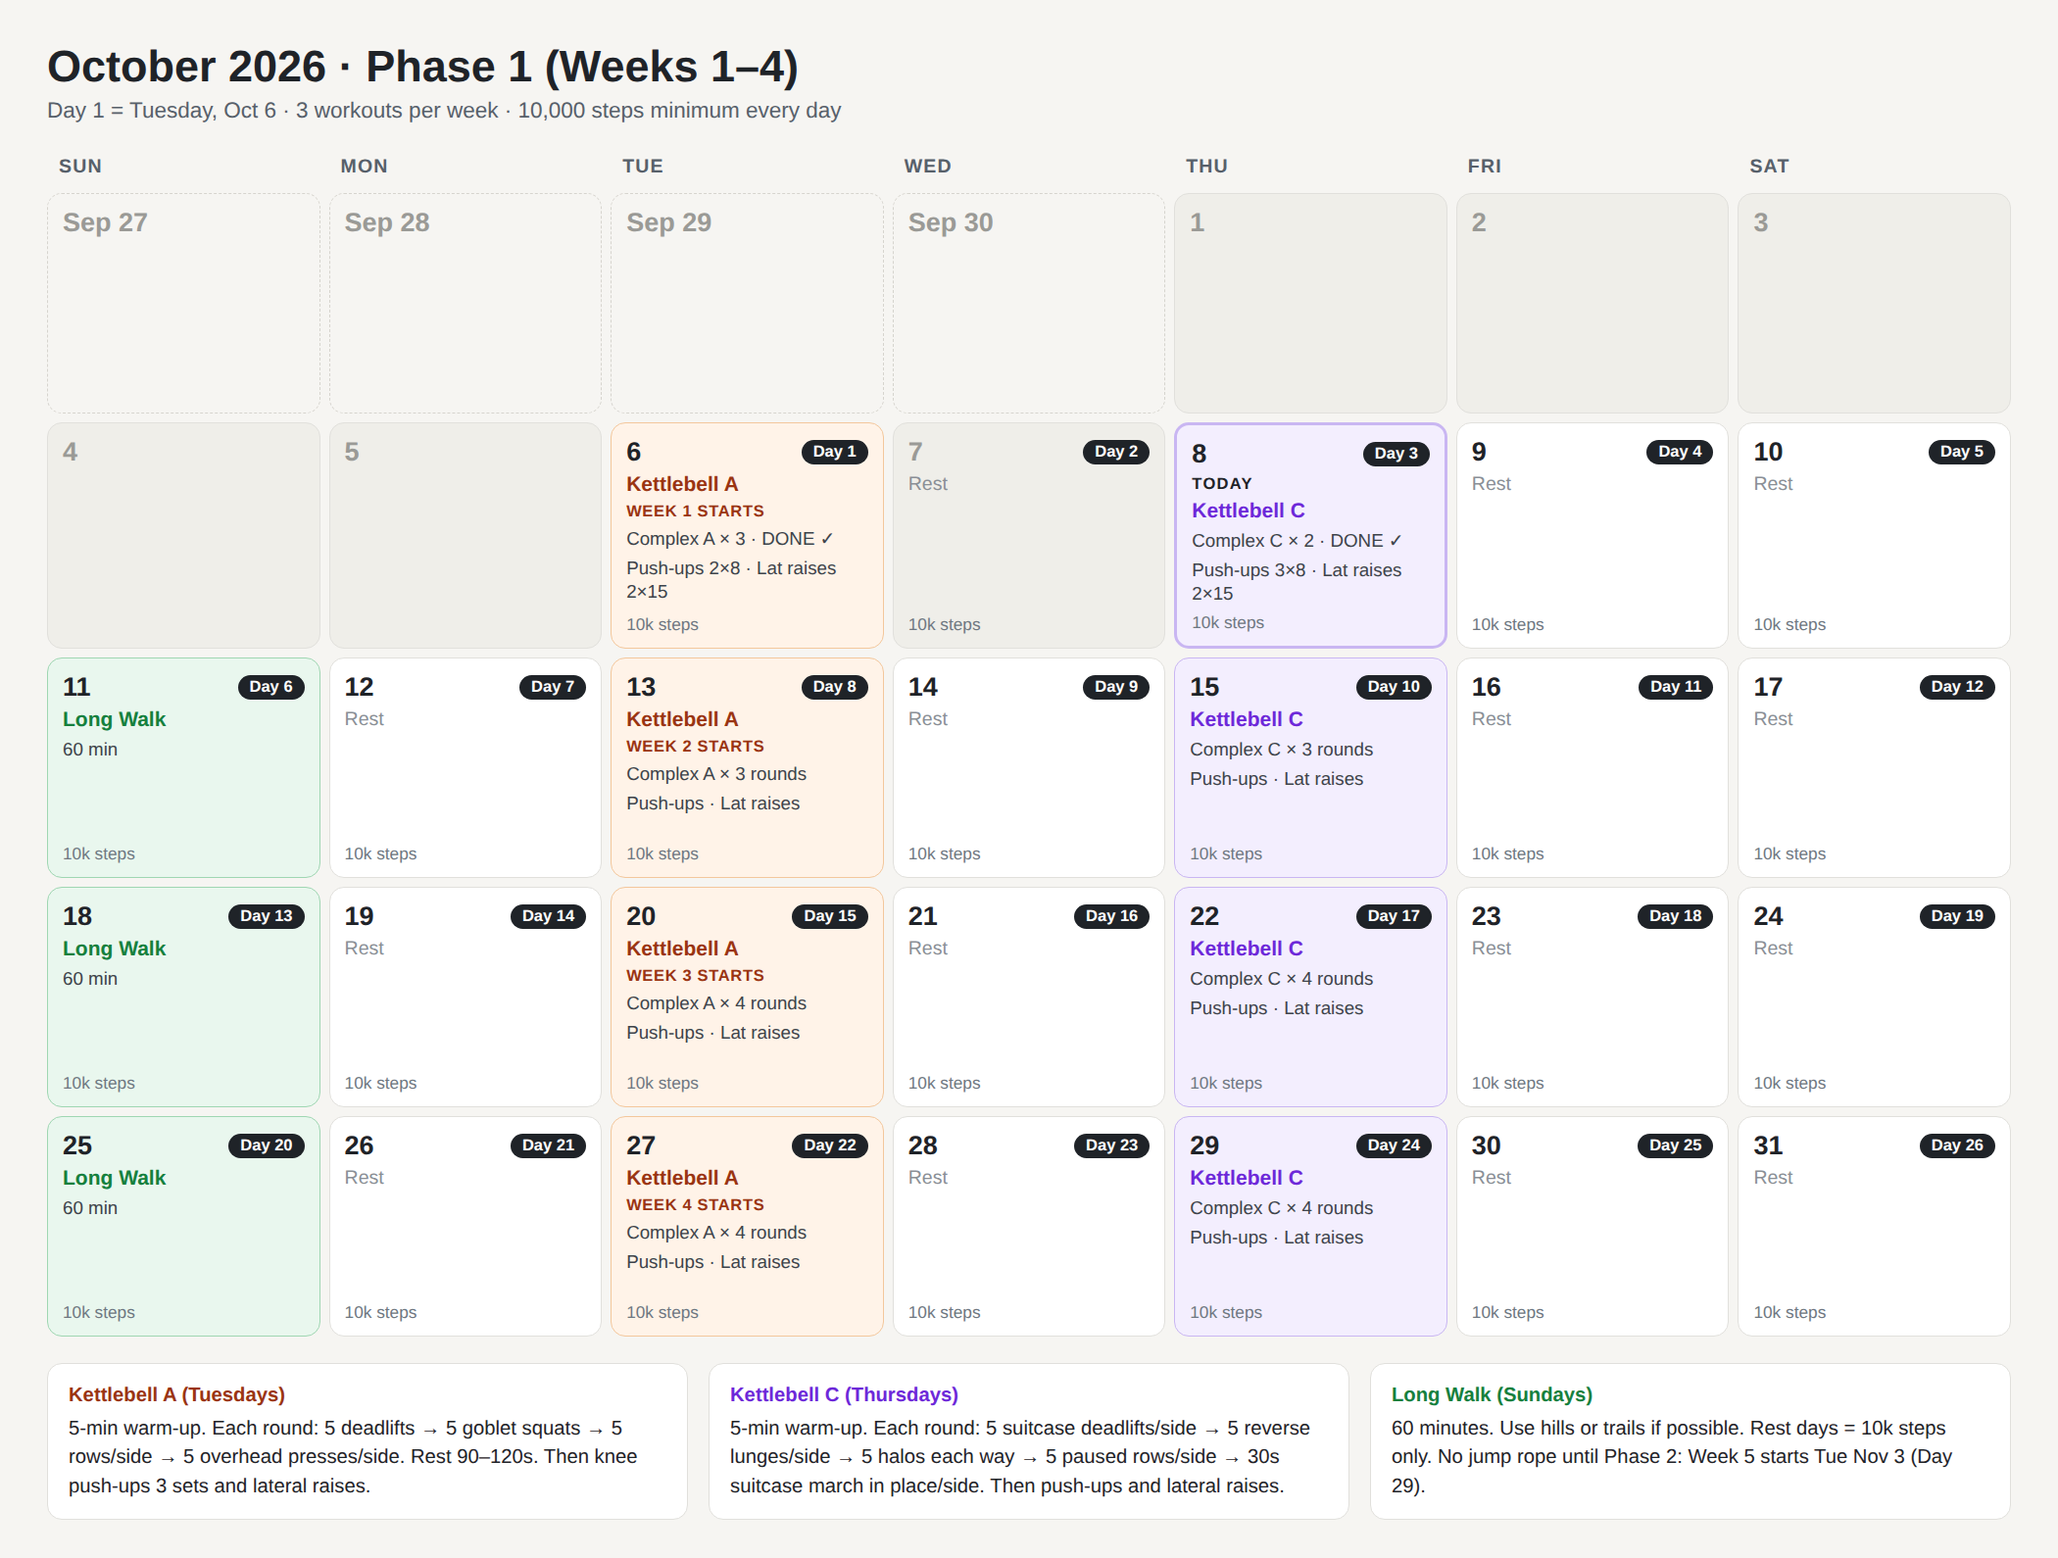
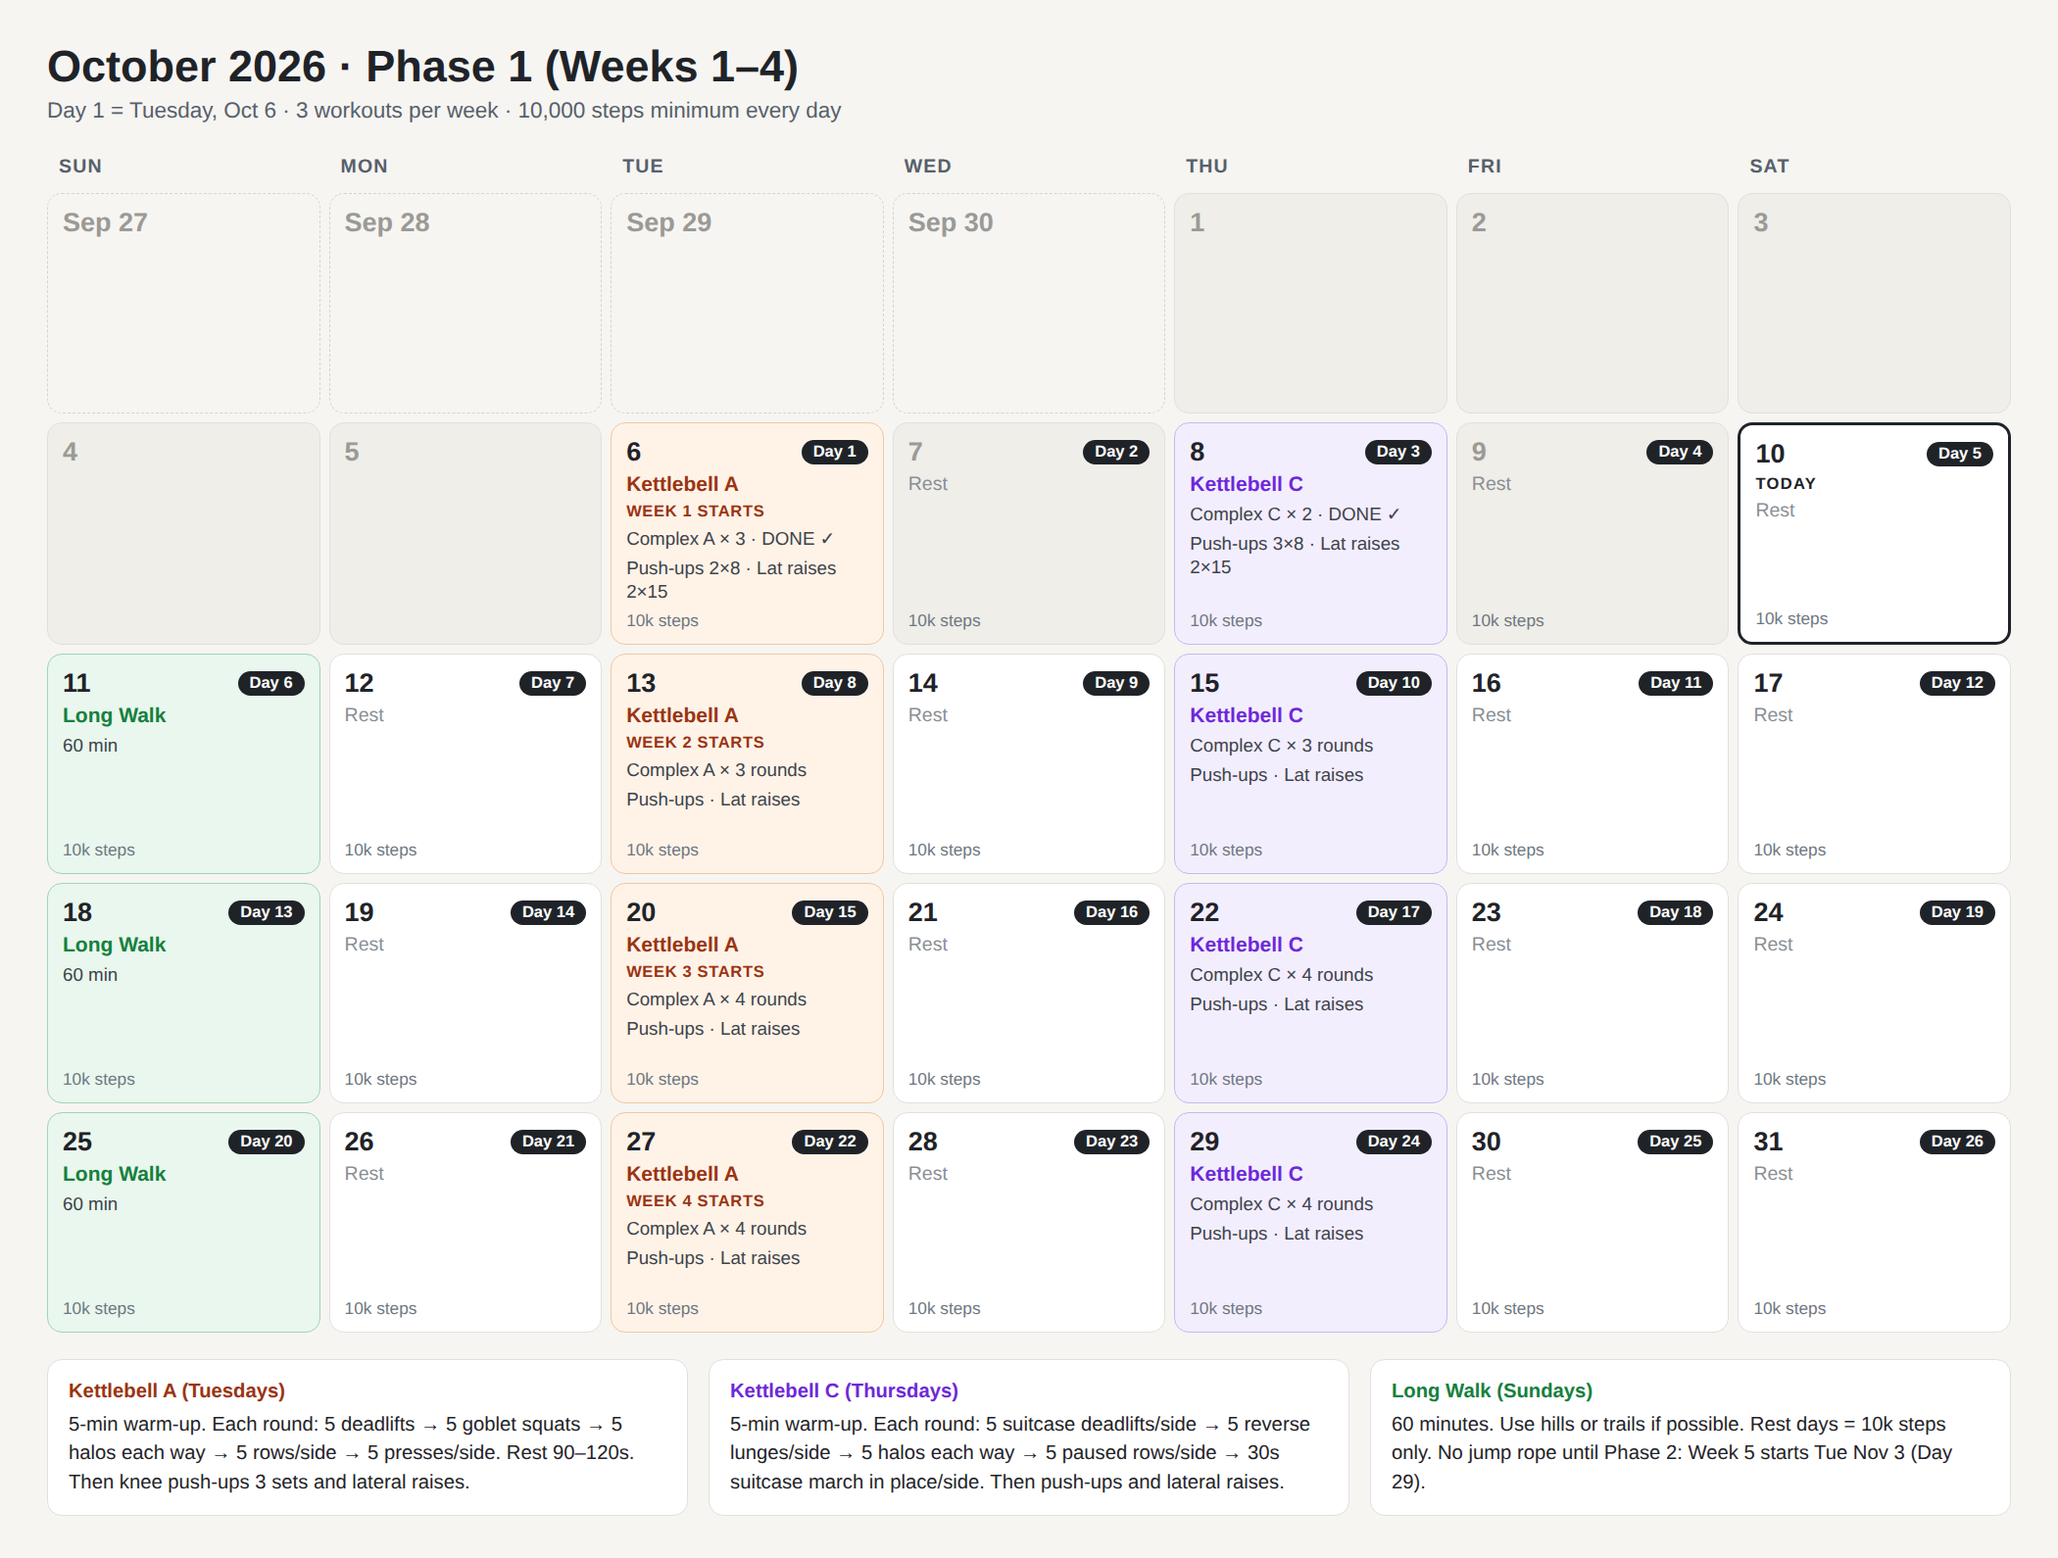
Add halos to Complex A
Halo goes after the goblet squat (5 each direction, 20 lb) for extra
core work. Calendar legend updated and TODAY marker moved to Oct 10.

diff --git a/source/october-2026.html b/source/october-2026.html
@@ -24,8 +24,8 @@ h1{margin:0;font-size:30px} .sub{color:#57606a;margin:4px 0 18px;font-size:15px}
 </style></head><body>
 <h1>October 2026 · Phase 1 (Weeks 1–4)</h1>
 <div class="sub">Day 1 = Tuesday, Oct 6 · 3 workouts per week · 10,000 steps minimum every day</div>
-<div class="grid"><div class="hd">Sun</div><div class="hd">Mon</div><div class="hd">Tue</div><div class="hd">Wed</div><div class="hd">Thu</div><div class="hd">Fri</div><div class="hd">Sat</div><div class="cell out"><div class="num">Sep 27</div></div><div class="cell out"><div class="num">Sep 28</div></div><div class="cell out"><div class="num">Sep 29</div></div><div class="cell out"><div class="num">Sep 30</div></div><div class="cell past"><div class="num">1</div></div><div class="cell past"><div class="num">2</div></div><div class="cell past"><div class="num">3</div></div><div class="cell past"><div class="num">4</div></div><div class="cell past"><div class="num">5</div></div><div class="cell kb"><div class="num">6<span class="day">Day 1</span></div><div class="w">Kettlebell A</div><div class="wk">Week 1 starts</div><div class="det">Complex A × 3 · DONE ✓</div><div class="det">Push-ups 2×8 · Lat raises 2×15</div><div class="steps">10k steps</div></div><div class="cell past"><div class="num">7<span class="day">Day 2</span></div><div class="rest">Rest</div><div class="steps">10k steps</div></div><div class="cell today kb2"><div class="num">8<span class="day">Day 3</span></div><div class="tag">TODAY</div><div class="w">Kettlebell C</div><div class="det">Complex C × 2 · DONE ✓</div><div class="det">Push-ups 3×8 · Lat raises 2×15</div><div class="steps">10k steps</div></div><div class="cell"><div class="num">9<span class="day">Day 4</span></div><div class="rest">Rest</div><div class="steps">10k steps</div></div><div class="cell"><div class="num">10<span class="day">Day 5</span></div><div class="rest">Rest</div><div class="steps">10k steps</div></div><div class="cell walk"><div class="num">11<span class="day">Day 6</span></div><div class="w">Long Walk</div><div class="det">60 min</div><div class="steps">10k steps</div></div><div class="cell"><div class="num">12<span class="day">Day 7</span></div><div class="rest">Rest</div><div class="steps">10k steps</div></div><div class="cell kb"><div class="num">13<span class="day">Day 8</span></div><div class="w">Kettlebell A</div><div class="wk">Week 2 starts</div><div class="det">Complex A × 3 rounds</div><div class="det">Push-ups · Lat raises</div><div class="steps">10k steps</div></div><div class="cell"><div class="num">14<span class="day">Day 9</span></div><div class="rest">Rest</div><div class="steps">10k steps</div></div><div class="cell kb2"><div class="num">15<span class="day">Day 10</span></div><div class="w">Kettlebell C</div><div class="det">Complex C × 3 rounds</div><div class="det">Push-ups · Lat raises</div><div class="steps">10k steps</div></div><div class="cell"><div class="num">16<span class="day">Day 11</span></div><div class="rest">Rest</div><div class="steps">10k steps</div></div><div class="cell"><div class="num">17<span class="day">Day 12</span></div><div class="rest">Rest</div><div class="steps">10k steps</div></div><div class="cell walk"><div class="num">18<span class="day">Day 13</span></div><div class="w">Long Walk</div><div class="det">60 min</div><div class="steps">10k steps</div></div><div class="cell"><div class="num">19<span class="day">Day 14</span></div><div class="rest">Rest</div><div class="steps">10k steps</div></div><div class="cell kb"><div class="num">20<span class="day">Day 15</span></div><div class="w">Kettlebell A</div><div class="wk">Week 3 starts</div><div class="det">Complex A × 4 rounds</div><div class="det">Push-ups · Lat raises</div><div class="steps">10k steps</div></div><div class="cell"><div class="num">21<span class="day">Day 16</span></div><div class="rest">Rest</div><div class="steps">10k steps</div></div><div class="cell kb2"><div class="num">22<span class="day">Day 17</span></div><div class="w">Kettlebell C</div><div class="det">Complex C × 4 rounds</div><div class="det">Push-ups · Lat raises</div><div class="steps">10k steps</div></div><div class="cell"><div class="num">23<span class="day">Day 18</span></div><div class="rest">Rest</div><div class="steps">10k steps</div></div><div class="cell"><div class="num">24<span class="day">Day 19</span></div><div class="rest">Rest</div><div class="steps">10k steps</div></div><div class="cell walk"><div class="num">25<span class="day">Day 20</span></div><div class="w">Long Walk</div><div class="det">60 min</div><div class="steps">10k steps</div></div><div class="cell"><div class="num">26<span class="day">Day 21</span></div><div class="rest">Rest</div><div class="steps">10k steps</div></div><div class="cell kb"><div class="num">27<span class="day">Day 22</span></div><div class="w">Kettlebell A</div><div class="wk">Week 4 starts</div><div class="det">Complex A × 4 rounds</div><div class="det">Push-ups · Lat raises</div><div class="steps">10k steps</div></div><div class="cell"><div class="num">28<span class="day">Day 23</span></div><div class="rest">Rest</div><div class="steps">10k steps</div></div><div class="cell kb2"><div class="num">29<span class="day">Day 24</span></div><div class="w">Kettlebell C</div><div class="det">Complex C × 4 rounds</div><div class="det">Push-ups · Lat raises</div><div class="steps">10k steps</div></div><div class="cell"><div class="num">30<span class="day">Day 25</span></div><div class="rest">Rest</div><div class="steps">10k steps</div></div><div class="cell"><div class="num">31<span class="day">Day 26</span></div><div class="rest">Rest</div><div class="steps">10k steps</div></div></div>
+<div class="grid"><div class="hd">Sun</div><div class="hd">Mon</div><div class="hd">Tue</div><div class="hd">Wed</div><div class="hd">Thu</div><div class="hd">Fri</div><div class="hd">Sat</div><div class="cell out"><div class="num">Sep 27</div></div><div class="cell out"><div class="num">Sep 28</div></div><div class="cell out"><div class="num">Sep 29</div></div><div class="cell out"><div class="num">Sep 30</div></div><div class="cell past"><div class="num">1</div></div><div class="cell past"><div class="num">2</div></div><div class="cell past"><div class="num">3</div></div><div class="cell past"><div class="num">4</div></div><div class="cell past"><div class="num">5</div></div><div class="cell kb"><div class="num">6<span class="day">Day 1</span></div><div class="w">Kettlebell A</div><div class="wk">Week 1 starts</div><div class="det">Complex A × 3 · DONE ✓</div><div class="det">Push-ups 2×8 · Lat raises 2×15</div><div class="steps">10k steps</div></div><div class="cell past"><div class="num">7<span class="day">Day 2</span></div><div class="rest">Rest</div><div class="steps">10k steps</div></div><div class="cell kb2"><div class="num">8<span class="day">Day 3</span></div><div class="w">Kettlebell C</div><div class="det">Complex C × 2 · DONE ✓</div><div class="det">Push-ups 3×8 · Lat raises 2×15</div><div class="steps">10k steps</div></div><div class="cell past"><div class="num">9<span class="day">Day 4</span></div><div class="rest">Rest</div><div class="steps">10k steps</div></div><div class="cell today"><div class="num">10<span class="day">Day 5</span></div><div class="tag">TODAY</div><div class="rest">Rest</div><div class="steps">10k steps</div></div><div class="cell walk"><div class="num">11<span class="day">Day 6</span></div><div class="w">Long Walk</div><div class="det">60 min</div><div class="steps">10k steps</div></div><div class="cell"><div class="num">12<span class="day">Day 7</span></div><div class="rest">Rest</div><div class="steps">10k steps</div></div><div class="cell kb"><div class="num">13<span class="day">Day 8</span></div><div class="w">Kettlebell A</div><div class="wk">Week 2 starts</div><div class="det">Complex A × 3 rounds</div><div class="det">Push-ups · Lat raises</div><div class="steps">10k steps</div></div><div class="cell"><div class="num">14<span class="day">Day 9</span></div><div class="rest">Rest</div><div class="steps">10k steps</div></div><div class="cell kb2"><div class="num">15<span class="day">Day 10</span></div><div class="w">Kettlebell C</div><div class="det">Complex C × 3 rounds</div><div class="det">Push-ups · Lat raises</div><div class="steps">10k steps</div></div><div class="cell"><div class="num">16<span class="day">Day 11</span></div><div class="rest">Rest</div><div class="steps">10k steps</div></div><div class="cell"><div class="num">17<span class="day">Day 12</span></div><div class="rest">Rest</div><div class="steps">10k steps</div></div><div class="cell walk"><div class="num">18<span class="day">Day 13</span></div><div class="w">Long Walk</div><div class="det">60 min</div><div class="steps">10k steps</div></div><div class="cell"><div class="num">19<span class="day">Day 14</span></div><div class="rest">Rest</div><div class="steps">10k steps</div></div><div class="cell kb"><div class="num">20<span class="day">Day 15</span></div><div class="w">Kettlebell A</div><div class="wk">Week 3 starts</div><div class="det">Complex A × 4 rounds</div><div class="det">Push-ups · Lat raises</div><div class="steps">10k steps</div></div><div class="cell"><div class="num">21<span class="day">Day 16</span></div><div class="rest">Rest</div><div class="steps">10k steps</div></div><div class="cell kb2"><div class="num">22<span class="day">Day 17</span></div><div class="w">Kettlebell C</div><div class="det">Complex C × 4 rounds</div><div class="det">Push-ups · Lat raises</div><div class="steps">10k steps</div></div><div class="cell"><div class="num">23<span class="day">Day 18</span></div><div class="rest">Rest</div><div class="steps">10k steps</div></div><div class="cell"><div class="num">24<span class="day">Day 19</span></div><div class="rest">Rest</div><div class="steps">10k steps</div></div><div class="cell walk"><div class="num">25<span class="day">Day 20</span></div><div class="w">Long Walk</div><div class="det">60 min</div><div class="steps">10k steps</div></div><div class="cell"><div class="num">26<span class="day">Day 21</span></div><div class="rest">Rest</div><div class="steps">10k steps</div></div><div class="cell kb"><div class="num">27<span class="day">Day 22</span></div><div class="w">Kettlebell A</div><div class="wk">Week 4 starts</div><div class="det">Complex A × 4 rounds</div><div class="det">Push-ups · Lat raises</div><div class="steps">10k steps</div></div><div class="cell"><div class="num">28<span class="day">Day 23</span></div><div class="rest">Rest</div><div class="steps">10k steps</div></div><div class="cell kb2"><div class="num">29<span class="day">Day 24</span></div><div class="w">Kettlebell C</div><div class="det">Complex C × 4 rounds</div><div class="det">Push-ups · Lat raises</div><div class="steps">10k steps</div></div><div class="cell"><div class="num">30<span class="day">Day 25</span></div><div class="rest">Rest</div><div class="steps">10k steps</div></div><div class="cell"><div class="num">31<span class="day">Day 26</span></div><div class="rest">Rest</div><div class="steps">10k steps</div></div></div>
 <div class="legend">
-<div><b style="color:#9a3412">Kettlebell A (Tuesdays)</b>5-min warm-up. Each round: 5 deadlifts → 5 goblet squats → 5 rows/side → 5 overhead presses/side. Rest 90–120s. Then knee push-ups 3 sets and lateral raises.</div>
+<div><b style="color:#9a3412">Kettlebell A (Tuesdays)</b>5-min warm-up. Each round: 5 deadlifts → 5 goblet squats → 5 halos each way → 5 rows/side → 5 presses/side. Rest 90–120s. Then knee push-ups 3 sets and lateral raises.</div>
 <div><b style="color:#6d28d9">Kettlebell C (Thursdays)</b>5-min warm-up. Each round: 5 suitcase deadlifts/side → 5 reverse lunges/side → 5 halos each way → 5 paused rows/side → 30s suitcase march in place/side. Then push-ups and lateral raises.</div>
 <div><b style="color:#15803d">Long Walk (Sundays)</b>60 minutes. Use hills or trails if possible. Rest days = 10k steps only. No jump rope until Phase 2: Week 5 starts Tue Nov 3 (Day 29).</div></body></html>

diff --git a/source/calendar-build.js b/source/calendar-build.js
@@ -20,7 +20,7 @@ for (let d = 1; d <= 31; d++) {
   const day = d - 5;
   const p = plan[d];
   let cls = 'cell', body = '';
-  const TODAY = 8;
+  const TODAY = 10;
   if (d < TODAY && !plan[d]) cls += ' past';
   if (d === TODAY) cls += ' today';
   if (day >= 1) {
@@ -64,7 +64,7 @@ h1{margin:0;font-size:30px} .sub{color:#57606a;margin:4px 0 18px;font-size:15px}
 <div class="sub">Day 1 = Tuesday, Oct 6 · 3 workouts per week · 10,000 steps minimum every day</div>
 <div class="grid">${['Sun','Mon','Tue','Wed','Thu','Fri','Sat'].map(d=>`<div class="hd">${d}</div>`).join('')}${cells.join('')}</div>
 <div class="legend">
-<div><b style="color:#9a3412">Kettlebell A (Tuesdays)</b>5-min warm-up. Each round: 5 deadlifts → 5 goblet squats → 5 rows/side → 5 overhead presses/side. Rest 90–120s. Then knee push-ups 3 sets and lateral raises.</div>
+<div><b style="color:#9a3412">Kettlebell A (Tuesdays)</b>5-min warm-up. Each round: 5 deadlifts → 5 goblet squats → 5 halos each way → 5 rows/side → 5 presses/side. Rest 90–120s. Then knee push-ups 3 sets and lateral raises.</div>
 <div><b style="color:#6d28d9">Kettlebell C (Thursdays)</b>5-min warm-up. Each round: 5 suitcase deadlifts/side → 5 reverse lunges/side → 5 halos each way → 5 paused rows/side → 30s suitcase march in place/side. Then push-ups and lateral raises.</div>
 <div><b style="color:#15803d">Long Walk (Sundays)</b>60 minutes. Use hills or trails if possible. Rest days = 10k steps only. No jump rope until Phase 2: Week 5 starts Tue Nov 3 (Day 29).</div></body></html>`;
 fs.writeFileSync('october-2026.html', html);

diff --git a/plan.md b/plan.md
@@ -68,12 +68,14 @@ If you're sore, do the warm-up twice (about 10 minutes).
 |---|---|---|---|
 | 1 | Deadlift | 5 | 35 lb |
 | 2 | Goblet squat | 5 | 15 lb (try 20 lb) |
-| 3 | Bent-over row | 5 per side | 20 lb |
-| 4 | Overhead press | 5 per side | 20 lb |
+| 3 | Halo | 5 each direction | 20 lb |
+| 4 | Bent-over row | 5 per side | 20 lb |
+| 5 | Overhead press | 5 per side | 20 lb |
 
 **Cues**
 - **Deadlift:** bell between your feet. Hinge back with a flat back, then drive your hips forward to stand.
 - **Goblet squat:** hold the bell at your chest by the horns. Sit between your heels with your chest up.
+- **Halo:** straight from the squat, flip the bell upside down by the horns and circle it slowly around your head. Squeeze your glutes and keep your ribs down so your lower back doesn't arch.
 - **Row:** hinge forward and brace your free hand on your thigh. Pull the bell toward your hip.
 - **Press:** squeeze your glutes and press straight up. Don't lean back.
 
